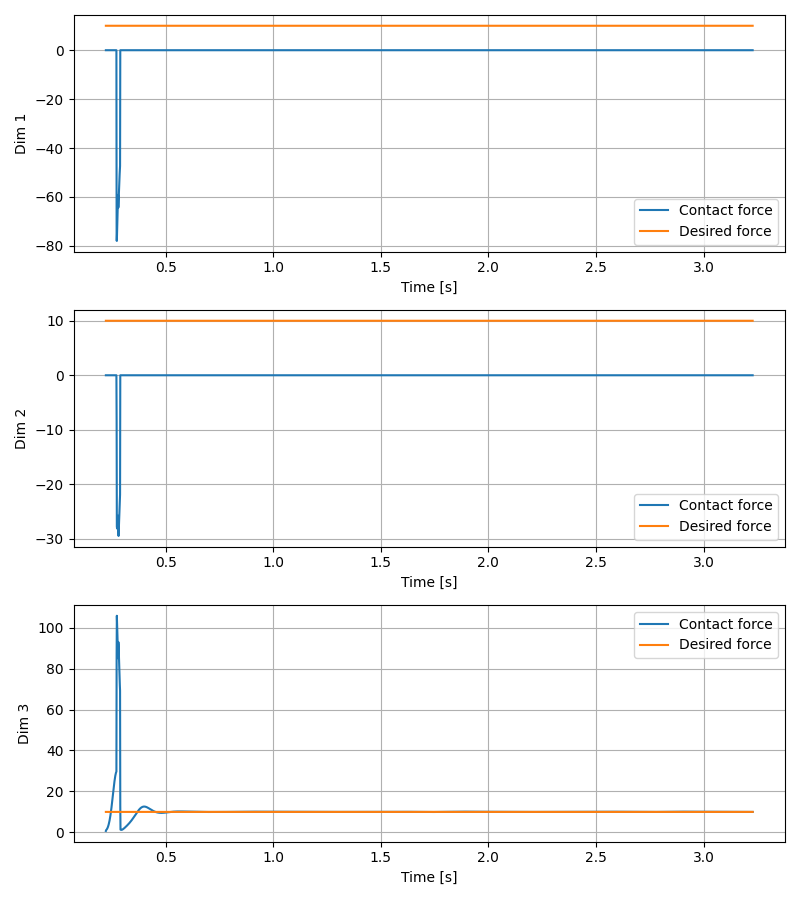
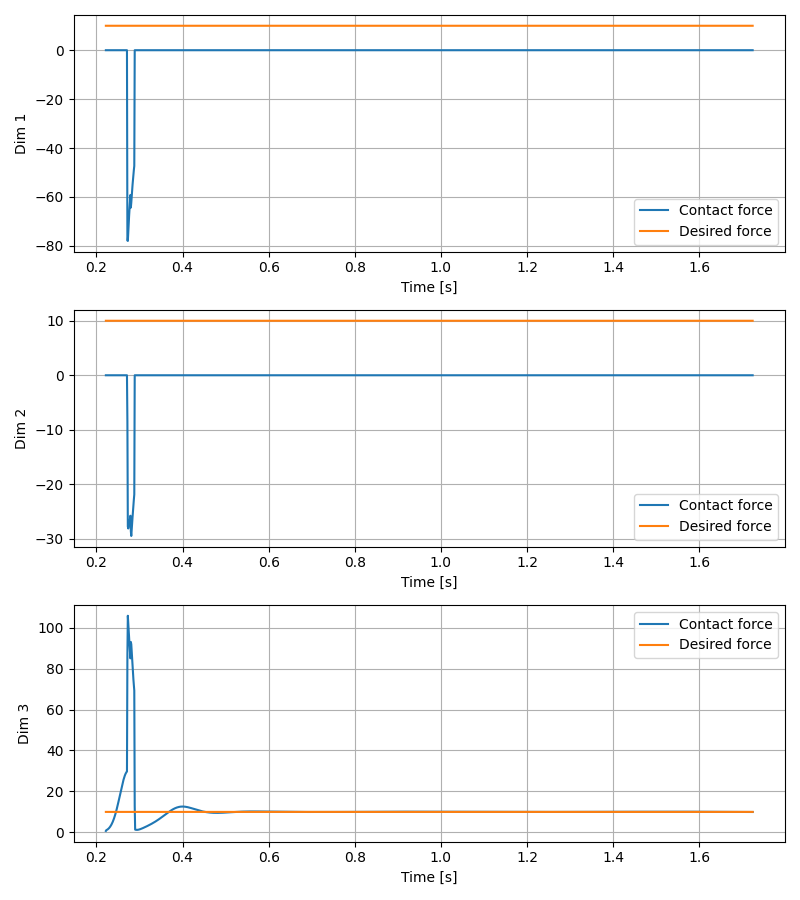
fix rotation issue

diff --git a/hybrid_slope_panda_pin_api.py b/hybrid_slope_panda_pin_api.py
@@ -16,7 +16,7 @@ from typing import Optional, Tuple
 from dataclasses import dataclass
 from enum import Enum
 
-from utils import *
+from utils_libfranka import *
 import matplotlib.pyplot as plt
 from geom_visualizer import visualize_normal_arrow, reset_scene
 from mujoco_robot_interface import MujocoRobotInterface, MujocoRobotState, Torques
@@ -353,7 +353,7 @@ class HybridController:
 
         self.R_slope = euler_to_rot_matrix(self.common_config.euler)
         rot_slope = Rotation.from_euler('xyz', self.common_config.euler)
-        self.quat_slope = rot_slope.as_quat(scalar_first=True)
+        self.quat_slope = np.roll(rot_slope.as_quat(),1)
 
         self.R = np.zeros((6, 6))
         self.R[0:3, 0:3] = self.R_slope
@@ -726,8 +726,8 @@ def main() -> None:
         # mujoco.mju_euler2Quat(quat_slope, common_config.euler, 'XYZ')
         # mujoco.mju_mulQuat(target_quat, quat_slope, target_quat)
         rot_slope = Rotation.from_euler('xyz', common_config.euler)
-        rot_target = Rotation.from_quat(target_quat, scalar_first=True)
-        target_quat = (rot_slope * rot_target).as_quat(scalar_first=True)
+        rot_target = Rotation.from_quat(np.roll(target_quat, -1))
+        target_quat = np.roll((rot_slope * rot_target).as_quat(), 1)
 
         # Start torque control
         print("\nStarting torque control...")

diff --git a/utils.py b/utils.py
@@ -257,7 +257,7 @@ def compute_ee_pose_error(target_pos, current_pos, target_quat, current_mat, Kpo
         rot_current = Rotation.from_matrix(np.eye(3))
     else:
         rot_current = Rotation.from_matrix(current_mat.reshape(3,3))
-    rot_target = Rotation.from_quat(target_quat, scalar_first=True)
+    rot_target = Rotation.from_quat(np.roll(target_quat, -1))
     
     R_error = rot_target * rot_current.inv()
     twist[3:] = R_error.as_rotvec()

diff --git a/utils_libfranka.py b/utils_libfranka.py
@@ -64,7 +64,7 @@ def compute_ee_pose_error(target_pos, current_pos, target_quat, current_mat, Kpo
         rot_current = Rotation.from_matrix(np.eye(3))
     else:
         rot_current = Rotation.from_matrix(current_mat.reshape(3,3))
-    rot_target = Rotation.from_quat(np.roll(target_quat,1))
+    rot_target = Rotation.from_quat(np.roll(target_quat, -1))
     
     R_error = rot_target * rot_current.inv()
     twist[3:] = R_error.as_rotvec()

diff --git a/mujoco_robot_interface.py b/mujoco_robot_interface.py
@@ -123,6 +123,7 @@ class MujocoRobotInterface:
 
         # Get external forces from contact sensors
         O_F_ext_hat_K = self._estimate_external_forces()
+        # O_F_ext_hat_K = np.zeros(6)
 
         return MujocoRobotState(q, dq, O_T_EE_flat, O_F_ext_hat_K), self.model.opt.timestep
 
